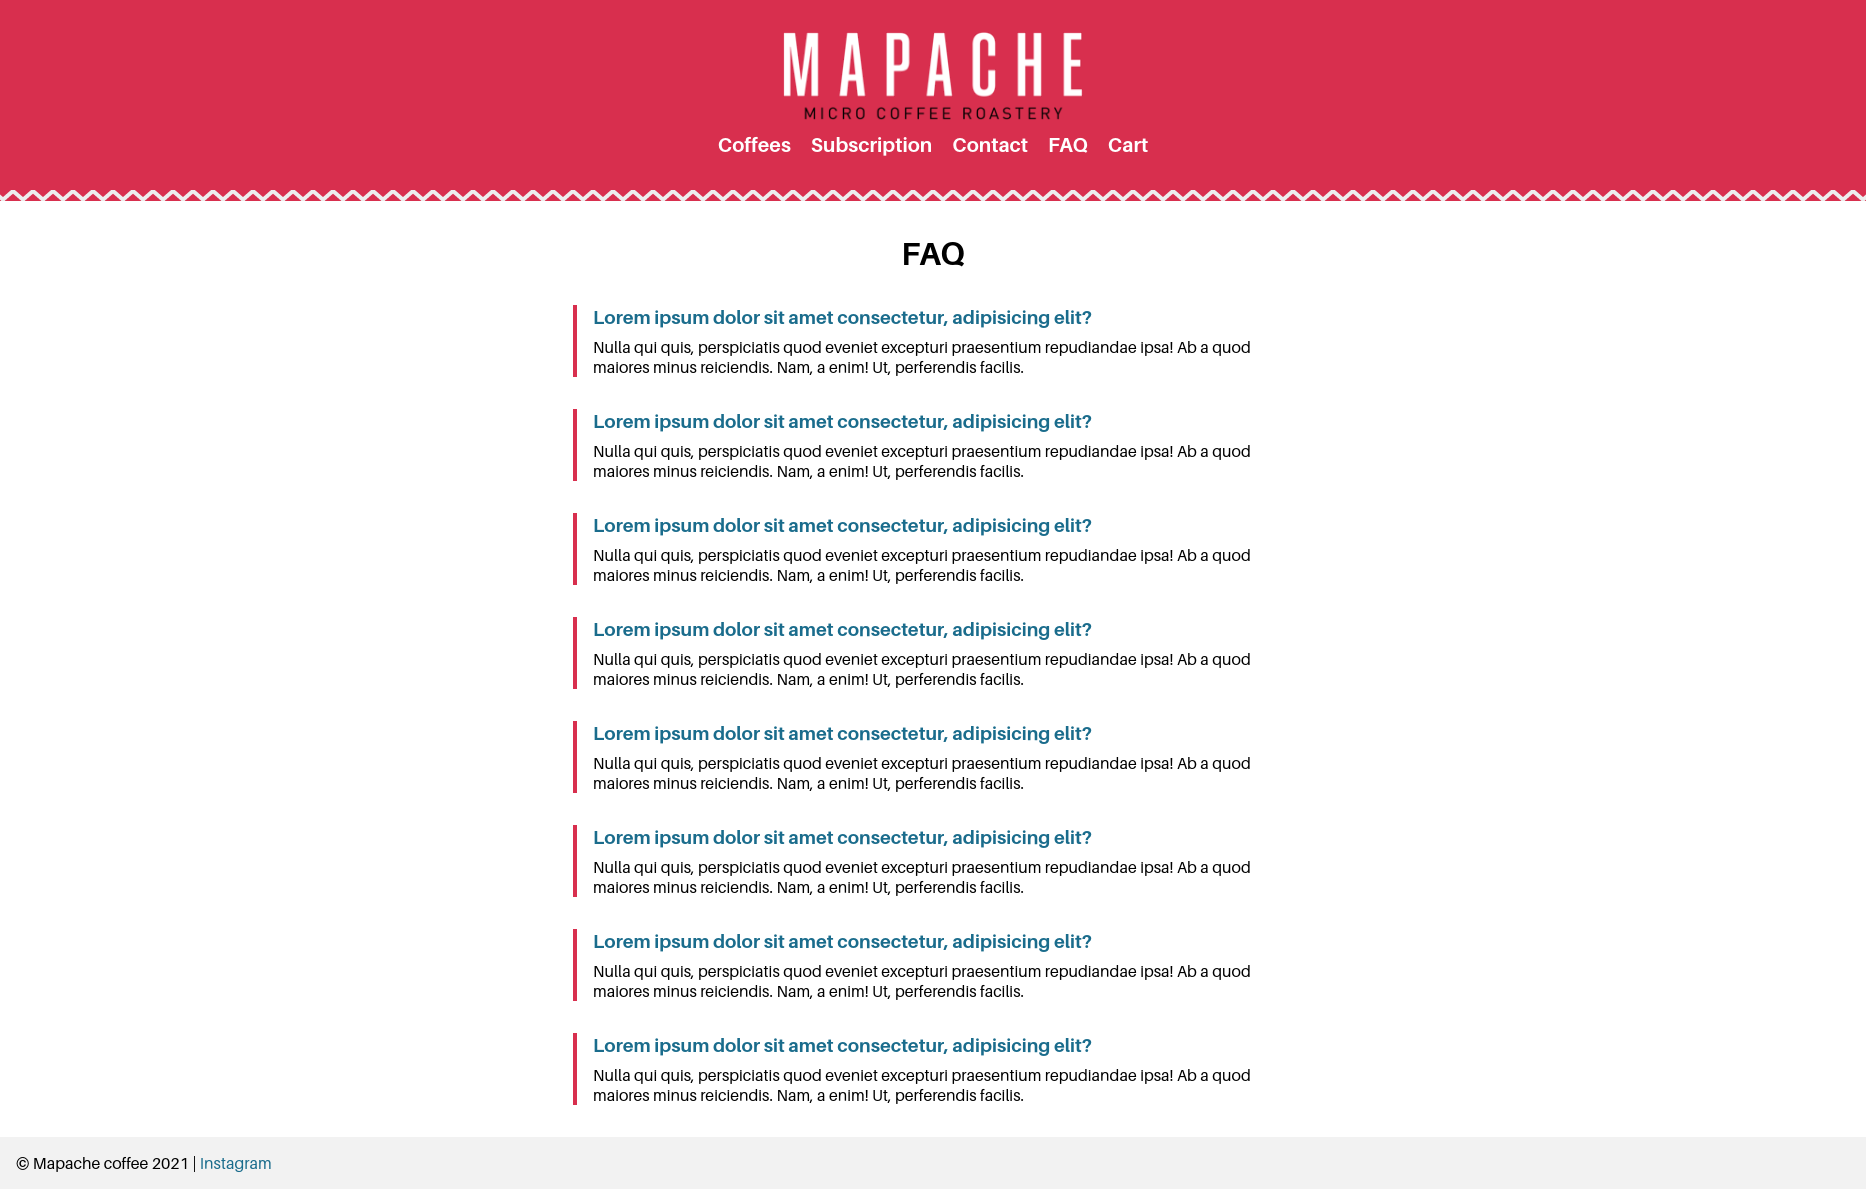
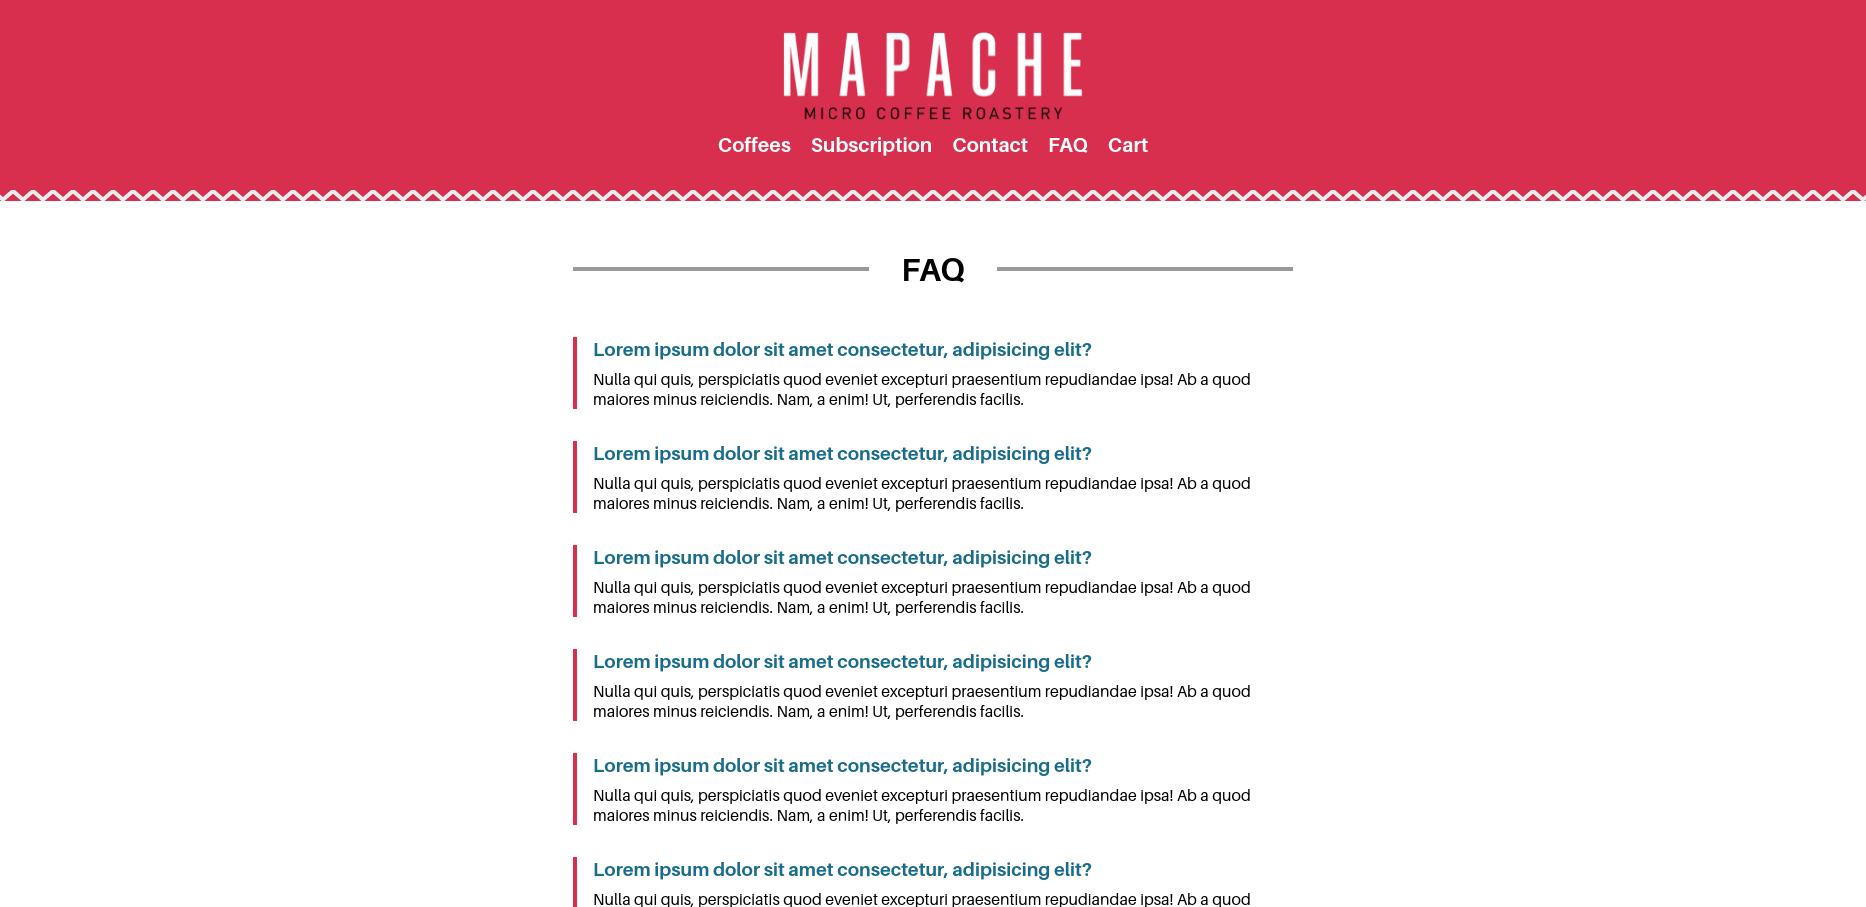
updated heading styling

Changed region(s): [[0.0, 0.0309, 1.0, 0.9261], [0.3108, 0.957, 0.6838, 1.0], [0.0, 0.957, 0.1554, 0.9879]]

diff --git a/mockup1/style.css b/mockup1/style.css
@@ -82,7 +82,7 @@ header nav button:hover {
 }
 
 main {
-  width: 1280px;
+  max-width: 1280px;
   margin: 0 auto;
   padding: 2rem 0;
   display: -webkit-box;
@@ -97,7 +97,30 @@ main {
           box-sizing: border-box;
 }
 
-main h1 {
+main #title {
+  margin: 1rem 0;
+  width: 100%;
+  display: -webkit-box;
+  display: -ms-flexbox;
+  display: flex;
+  -webkit-box-pack: center;
+      -ms-flex-pack: center;
+          justify-content: center;
+  -webkit-box-align: center;
+      -ms-flex-align: center;
+          align-items: center;
+  gap: 2rem;
+}
+
+main #title .h1-line {
+  background-color: #999;
+  height: 4px;
+  -webkit-box-flex: 1;
+      -ms-flex: 1;
+          flex: 1;
+}
+
+main #title h1 {
   text-align: center;
 }
 

diff --git a/mockup1/style.scss b/mockup1/style.scss
@@ -77,7 +77,7 @@ header {
 }
 
 main {
-  width: 1280px;
+  max-width: 1280px;
   margin: 0 auto;
   padding: 2rem 0;
   display: flex;
@@ -85,8 +85,23 @@ main {
   gap: 2rem;
   box-sizing: border-box;
 
-  h1 {
-    text-align: center;
+  #title {
+    margin: 1rem 0;
+    width: 100%;
+    display: flex;
+    justify-content: center;
+    align-items: center;
+    gap: 2rem;
+
+    .h1-line {
+      background-color: $secondary-color;
+      height: 4px;
+      flex: 1;
+    }
+
+    h1 {
+      text-align: center;
+    }
   }
 }
 

diff --git a/mockup1/index.html b/mockup1/index.html
@@ -22,7 +22,11 @@
     </header>
 
     <main>
-      <h1>Our Coffees</h1>
+      <div id="title">
+        <div class="h1-line"></div>
+        <h1>Our Coffees</h1>
+        <div class="h1-line"></div>
+      </div>
 
       <div id="coffee-wrapper">
         <article>

diff --git a/mockup1/faq.html b/mockup1/faq.html
@@ -22,7 +22,11 @@
     </header>
 
     <main>
-      <h1>FAQ</h1>
+      <div id="title">
+        <div class="h1-line"></div>
+        <h1>FAQ</h1>
+        <div class="h1-line"></div>
+      </div>
 
       <div id="faq-wrapper">
         <article>
